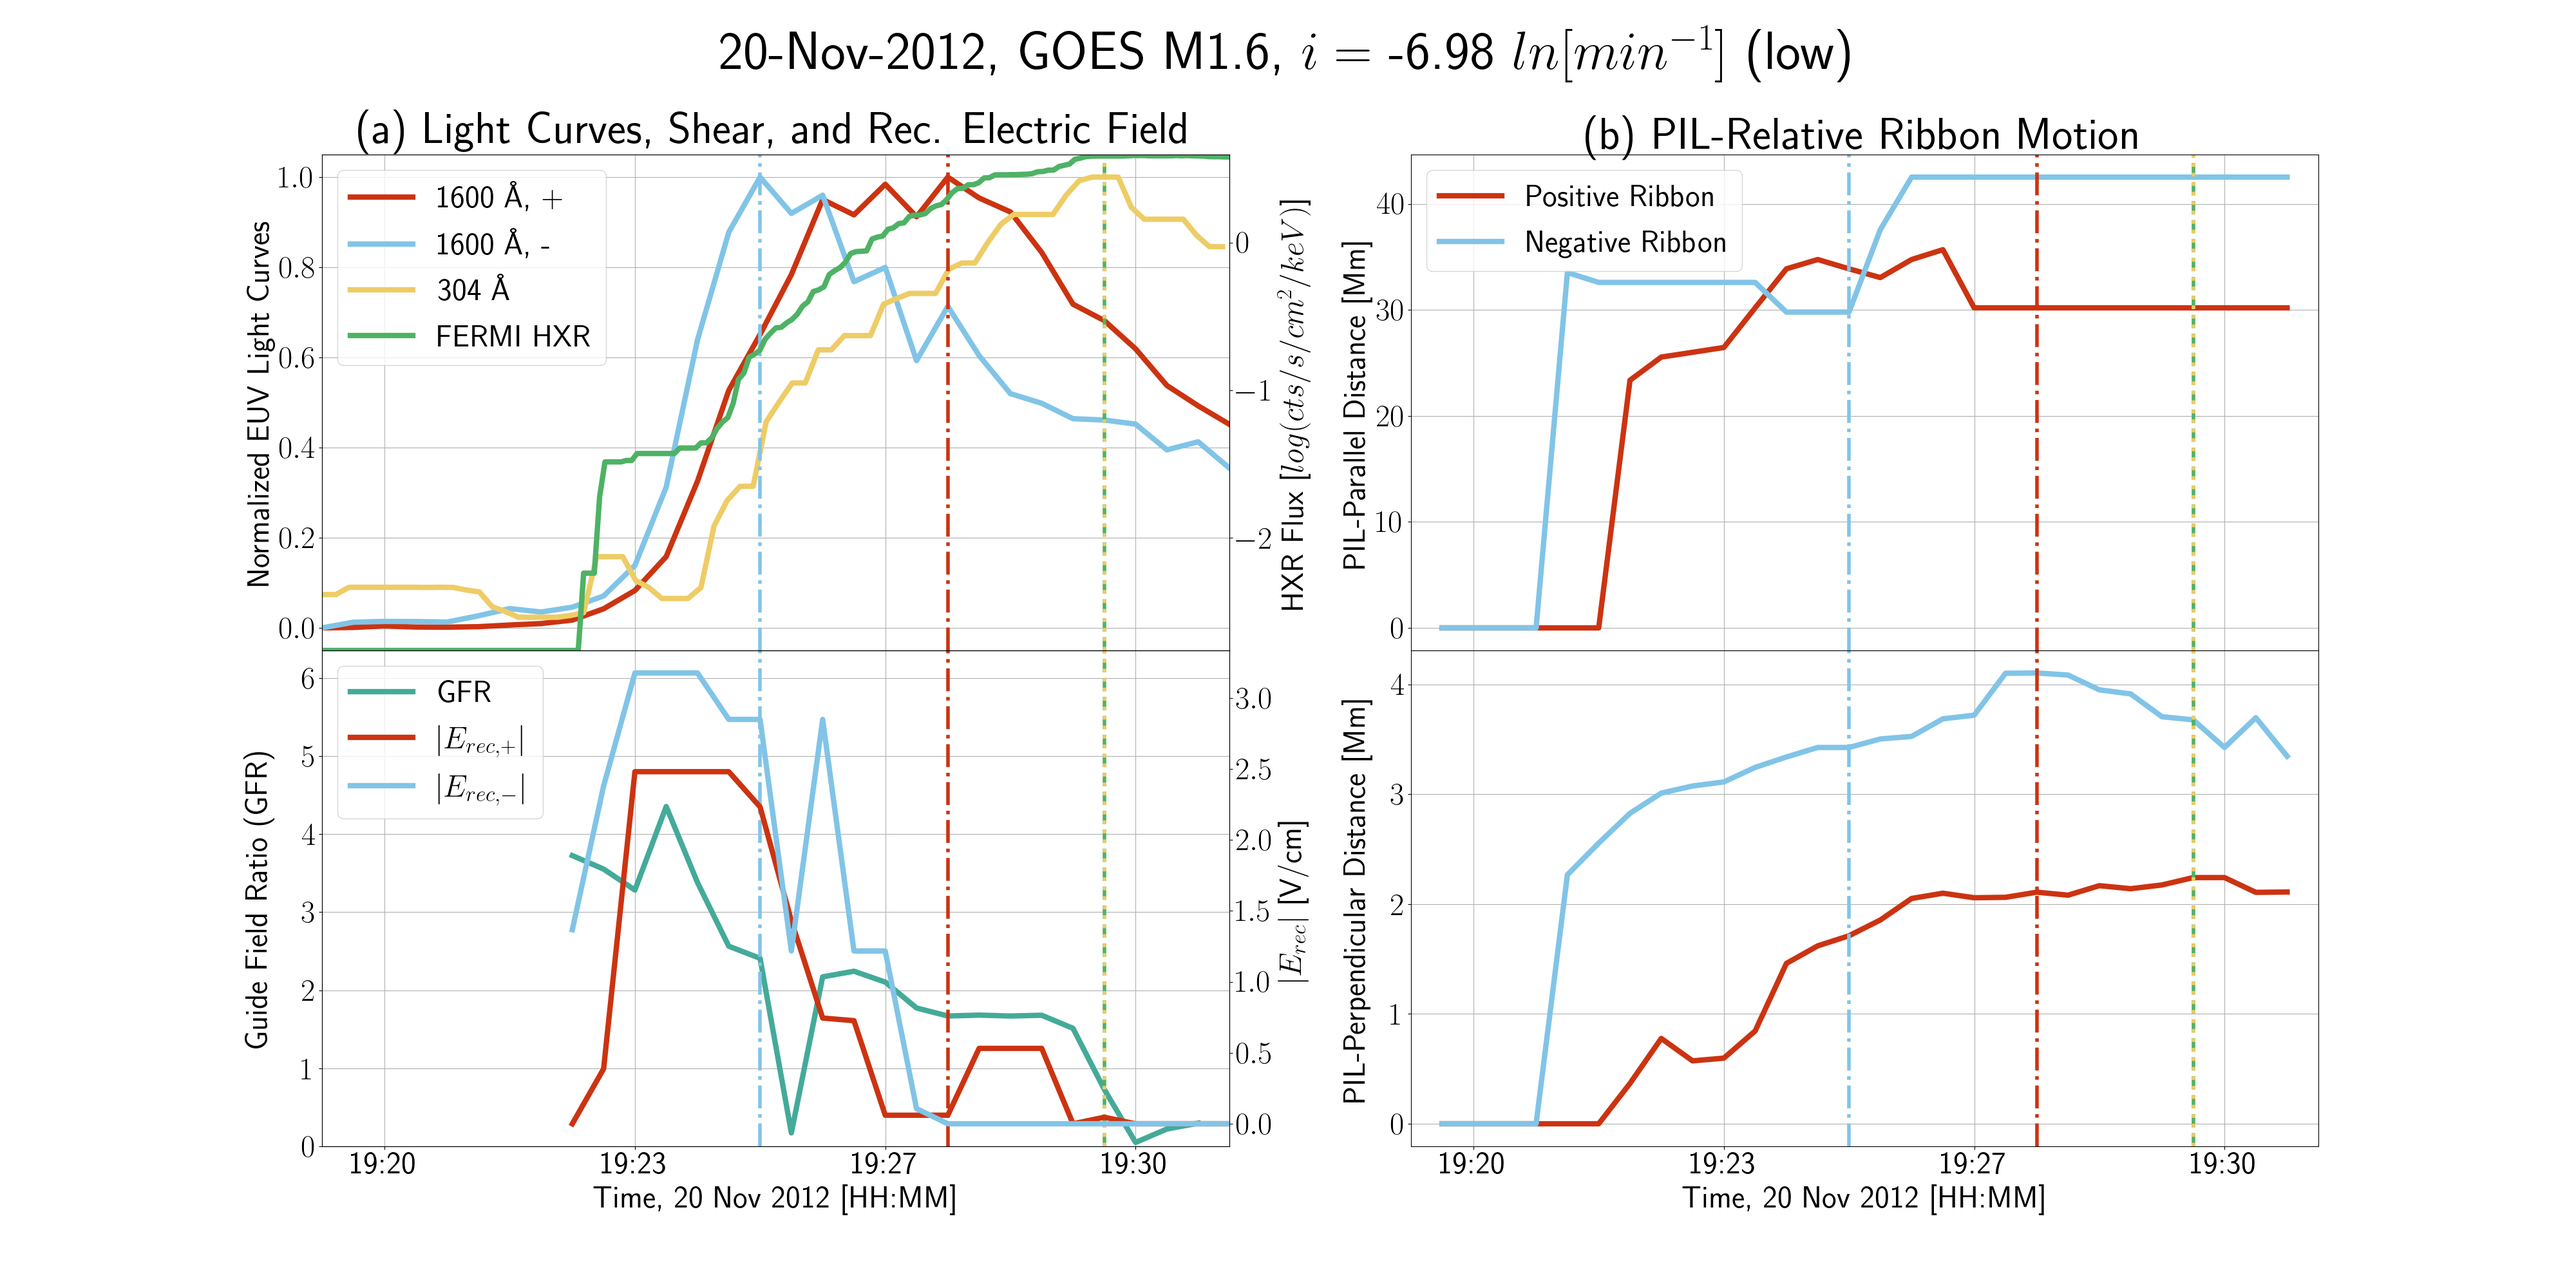
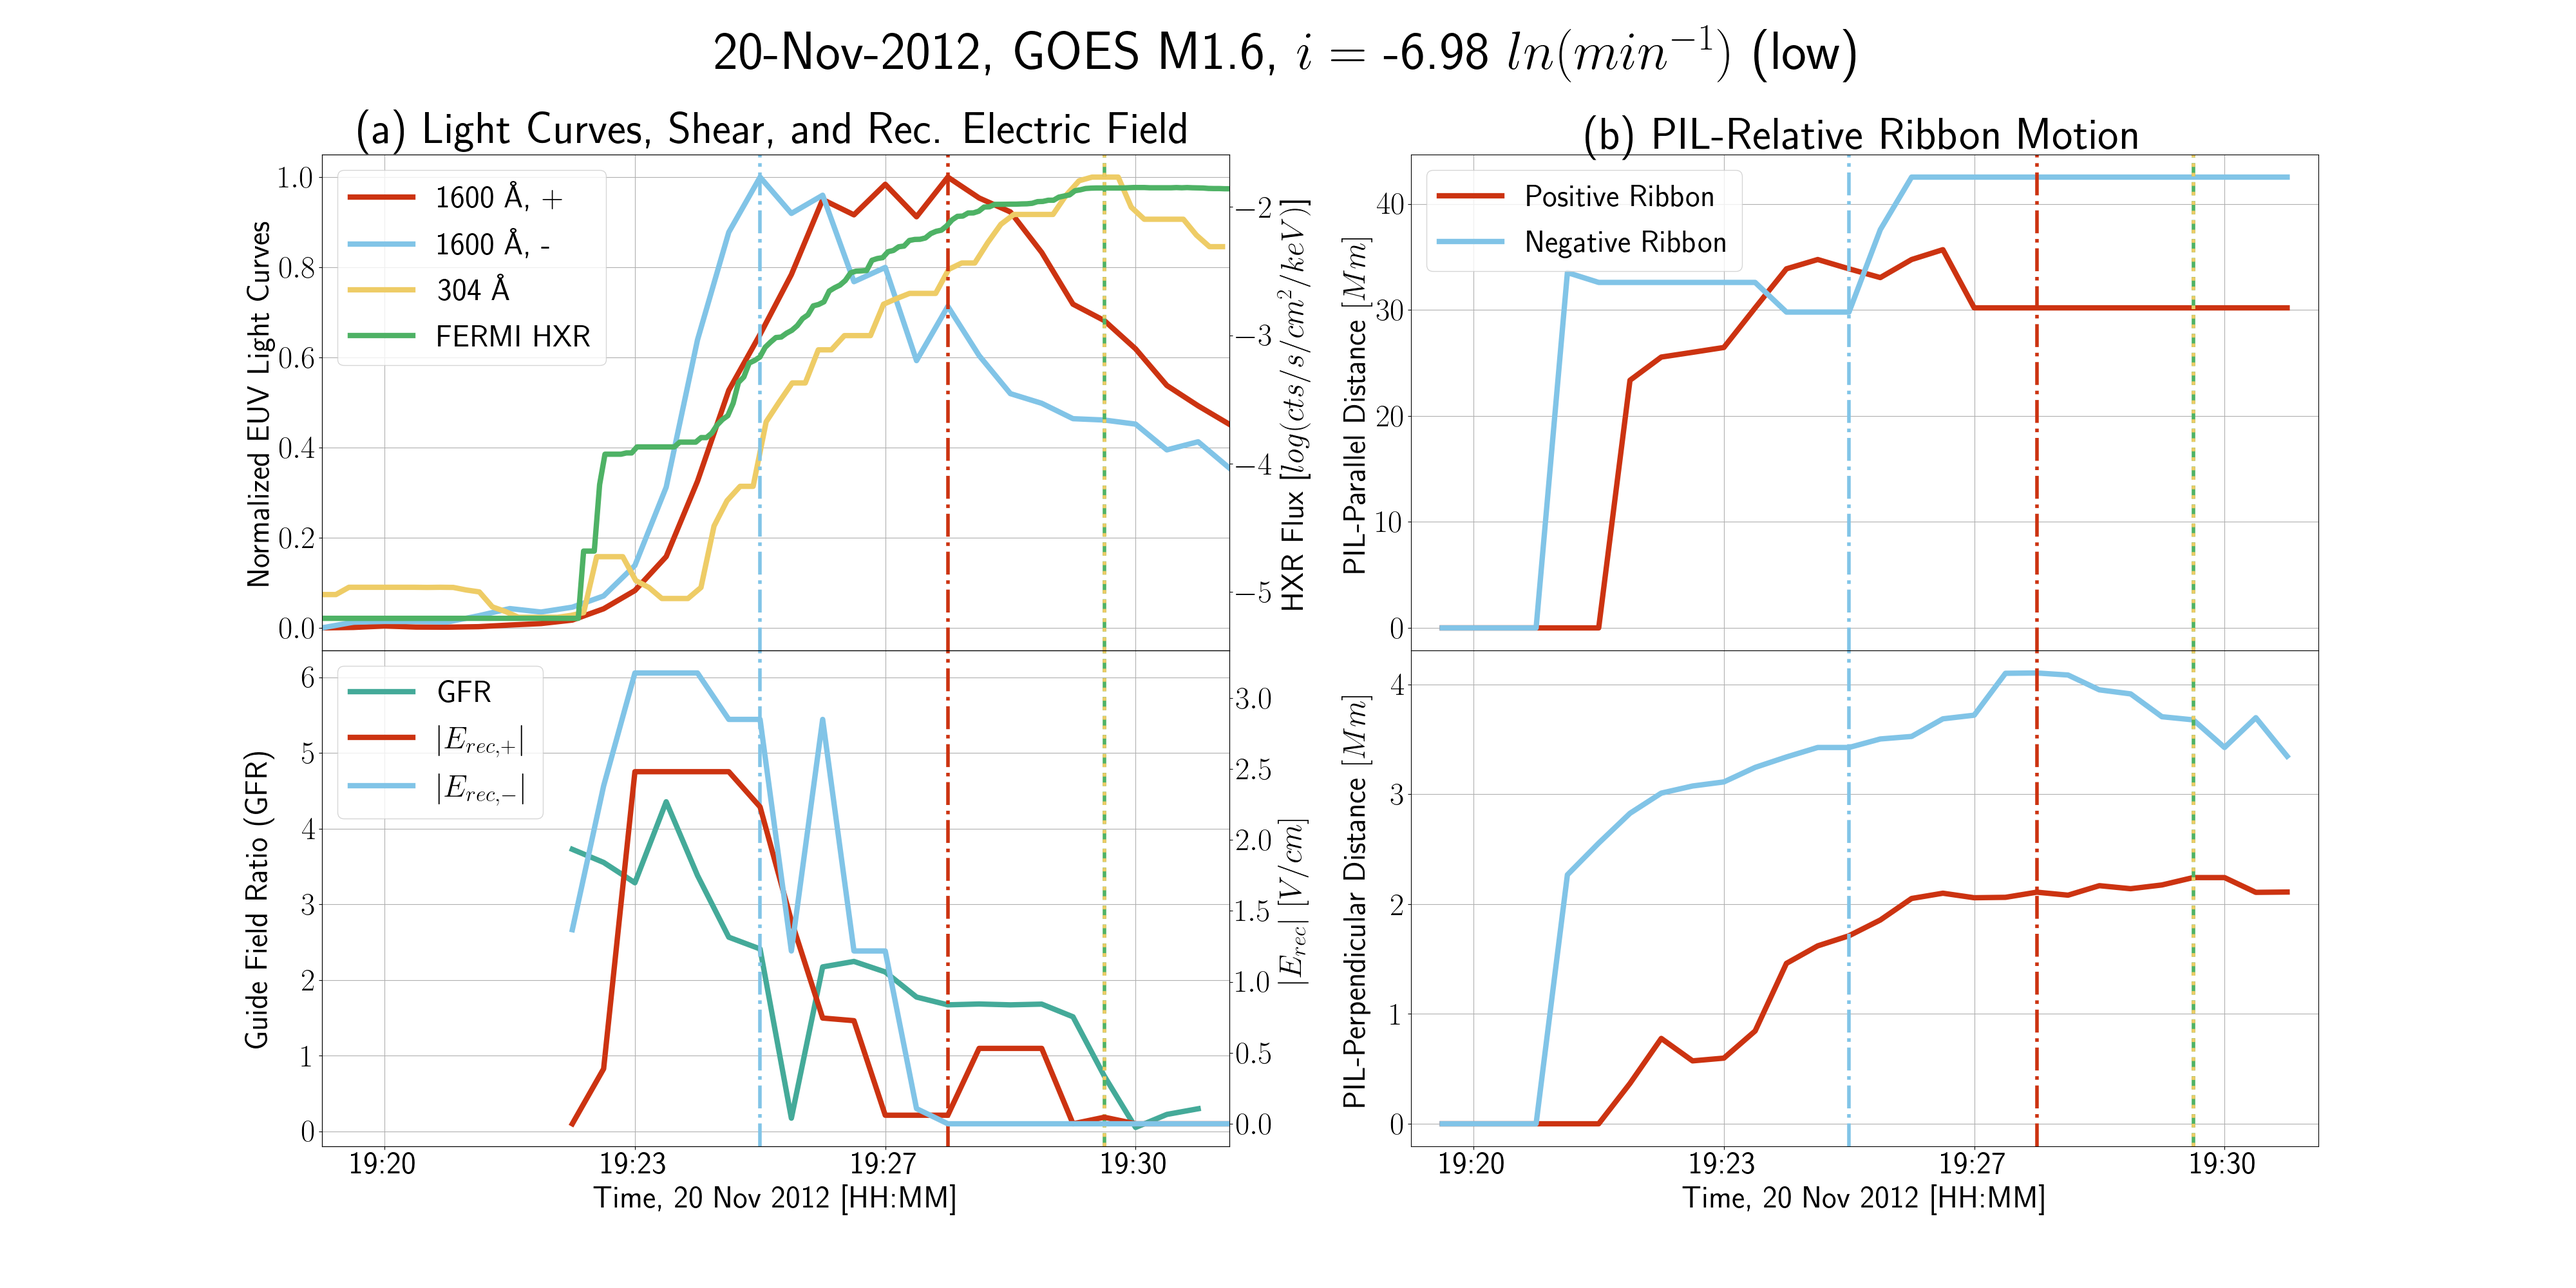
low3 edit

diff --git a/fl_funcs.py b/fl_funcs.py
@@ -4408,7 +4408,7 @@ def plt_fourpanel(times, right_gfr, left_gfr, flnum, dt1600, time304,
         maxfer = max(scipy.signal.medfilt(
             fermidf_fix.hxr[0:500], kernel_size=9))
         ax1_0 = ax1.twinx()
-        ax1_0.set_ylim(minfer,maxfer)
+        ax1_0.set_ylim(minfer-0.25,maxfer+0.25)
         lns4 = ax1_0.plot(fermitimes[low_hxr:high_hxr],
                           scipy.signal.medfilt(
                               fermidf_fix.hxr, kernel_size=21),
@@ -4550,7 +4550,7 @@ def plt_fourpanel(times, right_gfr, left_gfr, flnum, dt1600, time304,
         ax2_0.set_xticklabels(dt1600_1[2::tick_space])
        
     if fermioff  == 0:
-        ax1_0.set_yticks([-2,-3,-4])
+        ax1_0.set_yticks([-2,-3,-4,-5])
 
 
     
